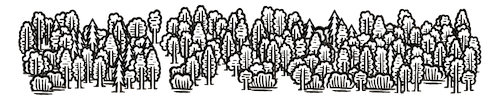
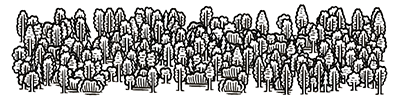
updating readme and forest examples

diff --git a/README.md b/README.md
@@ -14,9 +14,9 @@ or this:
 
 ![Forest #2](img/examples/example-forest-2.png)
 
-or this:
+or even in such crazy resolution of 4000x4000 pixels with 35000 tress painted: 
 
-![Forest #3](img/examples/example-forest-3.png)
+![Forest #3](img/examples/example-forest-3.jpg)
 
 randomly.
 
